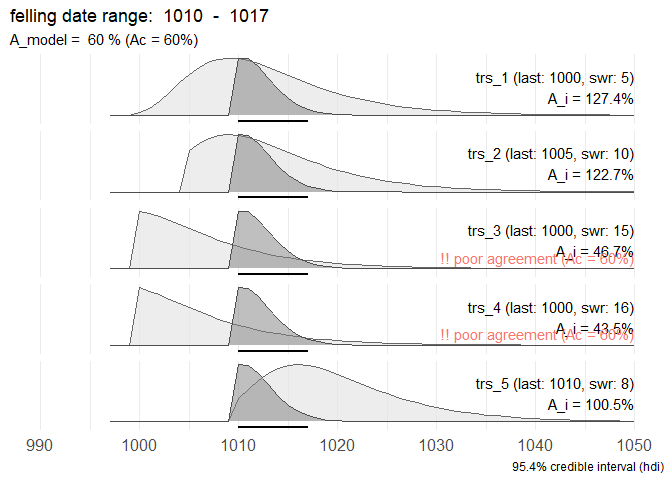
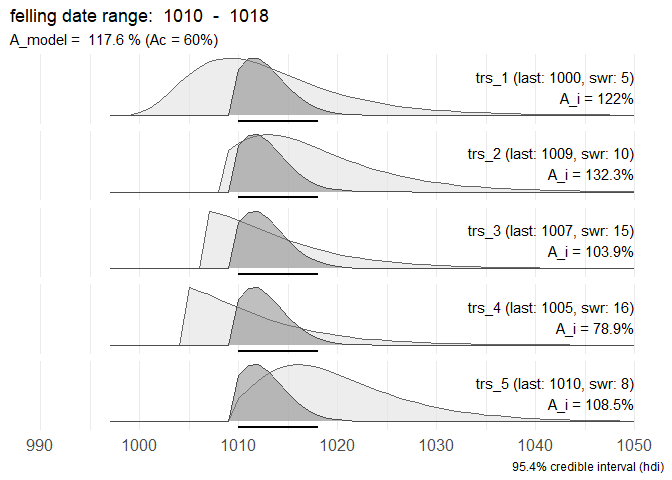
update readme with more exampl datasets (dummy)

diff --git a/README.md b/README.md
@@ -6,7 +6,7 @@ juli, 2020” output: github\_document
 
 -----
 
-# Estimating felling dates from historical tree-ring series
+# fellingDateR: estimating felling dates from historical tree-ring series
 
 The set of functions presented on this Github repository will help you
 infer felling date estimates from dated tree-ring series with partially
@@ -31,7 +31,7 @@ dating.
 
 ## Motivation
 
-These R scripts and functions were developped during the analysis of a
+These R scripts and functions were developed during the analysis of a
 large set of tree-ring data that were taken from medieval timber
 constructions in the town of Bruges (Belgium). The results of this study
 are presented in a paper that was submitted to
@@ -152,17 +152,40 @@ dated tree-ring series with (partly) preserved sapwood.
 ``` r
 # some test-data
 
+# all series have partially preserved sapwood
 dummy1 <- data.frame(
   keycode = c("trs_1", "trs_2", "trs_3", "trs_4", "trs_5"),
-  Date_end = c(1000, 1005, 1000, 1000, 1010),
+  Date_end = c(1000, 1009, 1007, 1005, 1010),
   SWR = c(5, 10, 15, 16, 8),
   Waneyedge = c(FALSE, FALSE, FALSE, FALSE, FALSE))
 
+# one series has an exact felling date (= waney edge preserved)
 dummy2 <- data.frame(
   keycode = c("trs_1", "trs_2", "trs_3", "trs_4", "trs_5"),
   Date_end = c(1000, 1005, 1008, 1000, 1010),
   SWR = c(5, 10, NA, 1, 3),
   Waneyedge = c(FALSE, FALSE, FALSE, FALSE, TRUE))
+
+# multiple felling dates
+dummy3 <- data.frame(
+  keycode = c("trs_1", "trs_2", "trs_3", "trs_4", "trs_5"),
+  Date_end = c(1000, 1005, 1008, 1000, 1010),
+  SWR = c(5, 10, NA, 1, NA),
+  Waneyedge = c(TRUE, TRUE, TRUE, TRUE, TRUE))
+
+# combination of series with and without sapwood rings
+dummy4 <- data.frame(
+  keycode = c("trs_1", "trs_2", "trs_3", "trs_4", "trs_5"),
+  Date_end = c(1000, 1005, 1005, 1020, 1040),
+  SWR = c(5, 10, NA, 1, 0),
+  Waneyedge = c(FALSE, FALSE, FALSE, FALSE, FALSE))
+
+# 
+dummy5 <- data.frame(
+  keycode = c("trs_1", "trs_2", "trs_3", "trs_4"),
+  Date_end = c(1000, 1005, 1000, 1000),
+  SWR = c(NA, NA, NA, NA),
+  Waneyedge = c(FALSE, FALSE, FALSE, FALSE))
   
 ```
 
@@ -176,16 +199,16 @@ str(swc1)
 #>  $ rawData  :'data.frame':   114 obs. of  7 variables:
 #>   ..$ year : num [1:114] 997 998 999 1000 1001 ...
 #>   ..$ trs_1: num [1:114] 0 0 0 0.00292 0.00785 ...
-#>   ..$ trs_2: num [1:114] 0 0 0 0 0 ...
-#>   ..$ trs_3: num [1:114] 0 0 0 0.098 0.0945 ...
-#>   ..$ trs_4: num [1:114] 0 0 0 0.1047 0.0989 ...
+#>   ..$ trs_2: num [1:114] 0 0 0 0 0 0 0 0 0 0 ...
+#>   ..$ trs_3: num [1:114] 0 0 0 0 0 0 0 0 0 0 ...
+#>   ..$ trs_4: num [1:114] 0 0 0 0 0 ...
 #>   ..$ trs_5: num [1:114] 0 0 0 0 0 0 0 0 0 0 ...
 #>   ..$ COMB : num [1:114] 0 0 0 0 0 0 0 0 0 0 ...
 #>  $ A_c      : Named num 60
 #>   ..- attr(*, "names")= chr "Ac: critical threshold (%)"
-#>  $ A_comb   : Named num 60
+#>  $ A_comb   : Named num 118
 #>   ..- attr(*, "names")= chr "A_comb"
-#>  $ hdi_model: Named num [1:2] 1010 1015
+#>  $ hdi_model: Named num [1:2] 1010 1016
 #>   ..- attr(*, "names")= chr [1:2] "lower" "upper"
 #>   ..- attr(*, "credMass")= num 0.9
 #>   ..- attr(*, "sapwood_model")= chr "Hollstein_1990"
@@ -193,12 +216,15 @@ str(swc1)
 #>   ..- attr(*, "dimnames")=List of 2
 #>   .. ..$ : chr [1:5] "trs_1" "trs_2" "trs_3" "trs_4" ...
 #>   .. ..$ : chr [1:5] "series" "endDate" "swr" "waneyEdge" ...
-#>  $ message  : chr "felling date range:  1010  -  1015"
+#>  $ message  : chr "felling date range:  1010  -  1016"
 ```
 
 ## sapwood\_comb\_plot()
 
 Plot the output of `sapwood_combine()` with `ggplot()`
+
+This first set of tree-ring series migh share a common felling date,
+situated between 1010 and 1018 AD.
 
 ``` r
 source("./R/sapwood_comb_plot.R")
@@ -206,7 +232,10 @@ source("./R/sapwood_comb_plot.R")
 sapwood_comb_plot(dummy1, credMass = .954, model = "Hollstein_1990")
 ```
 
-![](README_files/figure-gfm/unnamed-chunk-7-1.png)<!-- -->
+![](README_files/figure-gfm/unnamed-chunk-7-1.png)<!-- --> When a series
+with preserved waney edge is dated, an exact felling date can be
+determined and evaluated whether the other series with preserved sapwood
+go together with this felling date.
 
 ``` r
 
@@ -219,6 +248,44 @@ sapwood_comb_plot(dummy2, credMass = .954, model = "Hollstein_1990")
 ```
 
 ![](README_files/figure-gfm/unnamed-chunk-8-1.png)<!-- -->
+
+A data set with series that have different felling dates. No common
+felling date can be presented.
+
+``` r
+
+sapwood_comb_plot(dummy3, credMass = .954, model = "Hollstein_1990")
+#> Warning: Removed 300 rows containing missing values (position_stack).
+#> Warning: Removed 60 row(s) containing missing values (geom_path).
+```
+
+![](README_files/figure-gfm/unnamed-chunk-9-1.png)<!-- -->
+
+For this set of tree-ring series, no common felling date can be
+estimated. Probably this dataset contains tree-ring series from
+different building phases or includes reused older timbers.
+
+``` r
+
+sapwood_comb_plot(dummy4, credMass = .954, model = "Hollstein_1990")
+#> Warning: Removed 376 rows containing missing values (position_stack).
+#> Warning: Removed 300 rows containing missing values (position_stack).
+#> Warning: Removed 60 row(s) containing missing values (geom_path).
+
+#> Warning: Removed 60 row(s) containing missing values (geom_path).
+```
+
+![](README_files/figure-gfm/unnamed-chunk-10-1.png)<!-- -->
+
+Ony a *terminus post quem* or ‘earliest possible felling date’ can be
+computed when no sapwood is preserved.
+
+``` r
+
+sapwood_comb_plot(dummy5, credMass = .954, model = "Hollstein_1990")
+```
+
+![](README_files/figure-gfm/unnamed-chunk-11-1.png)<!-- -->
 
 ## sapwood\_SPD()
 
